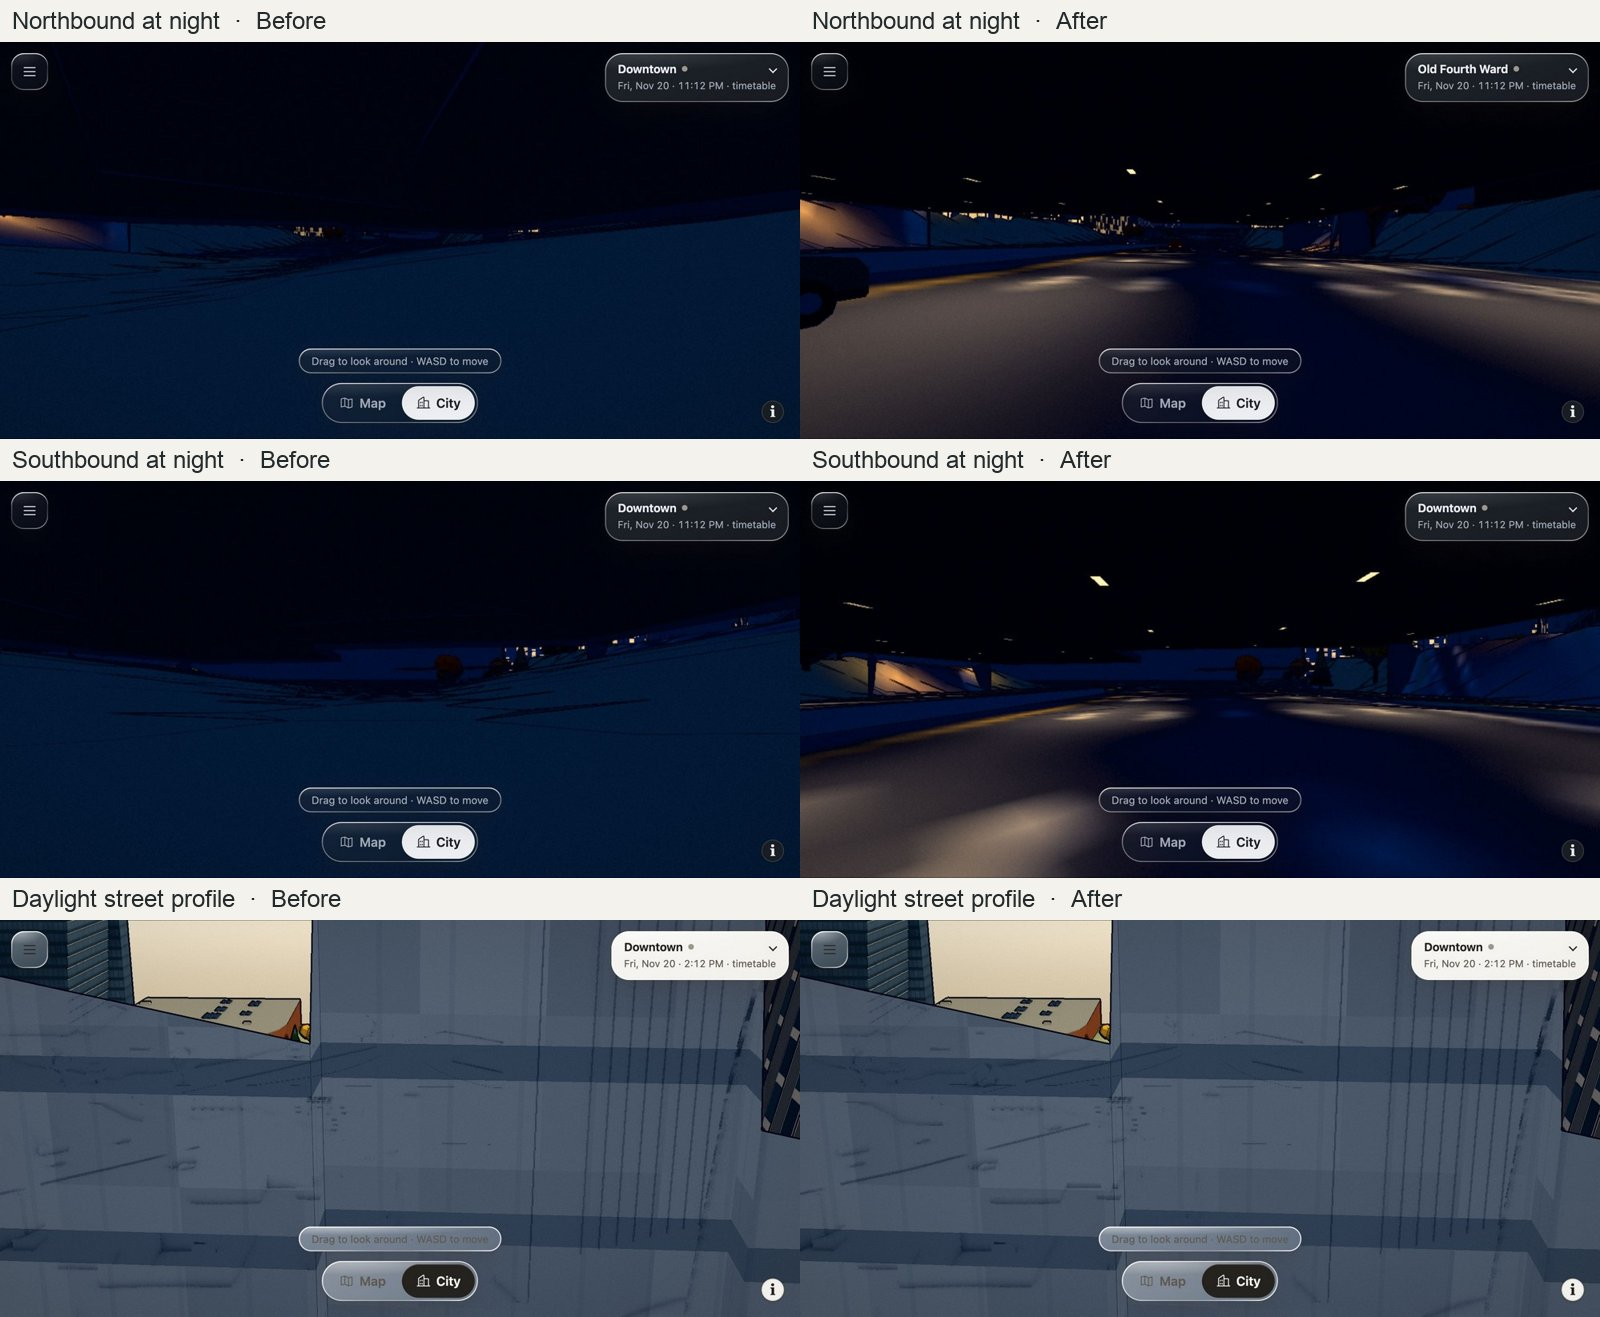
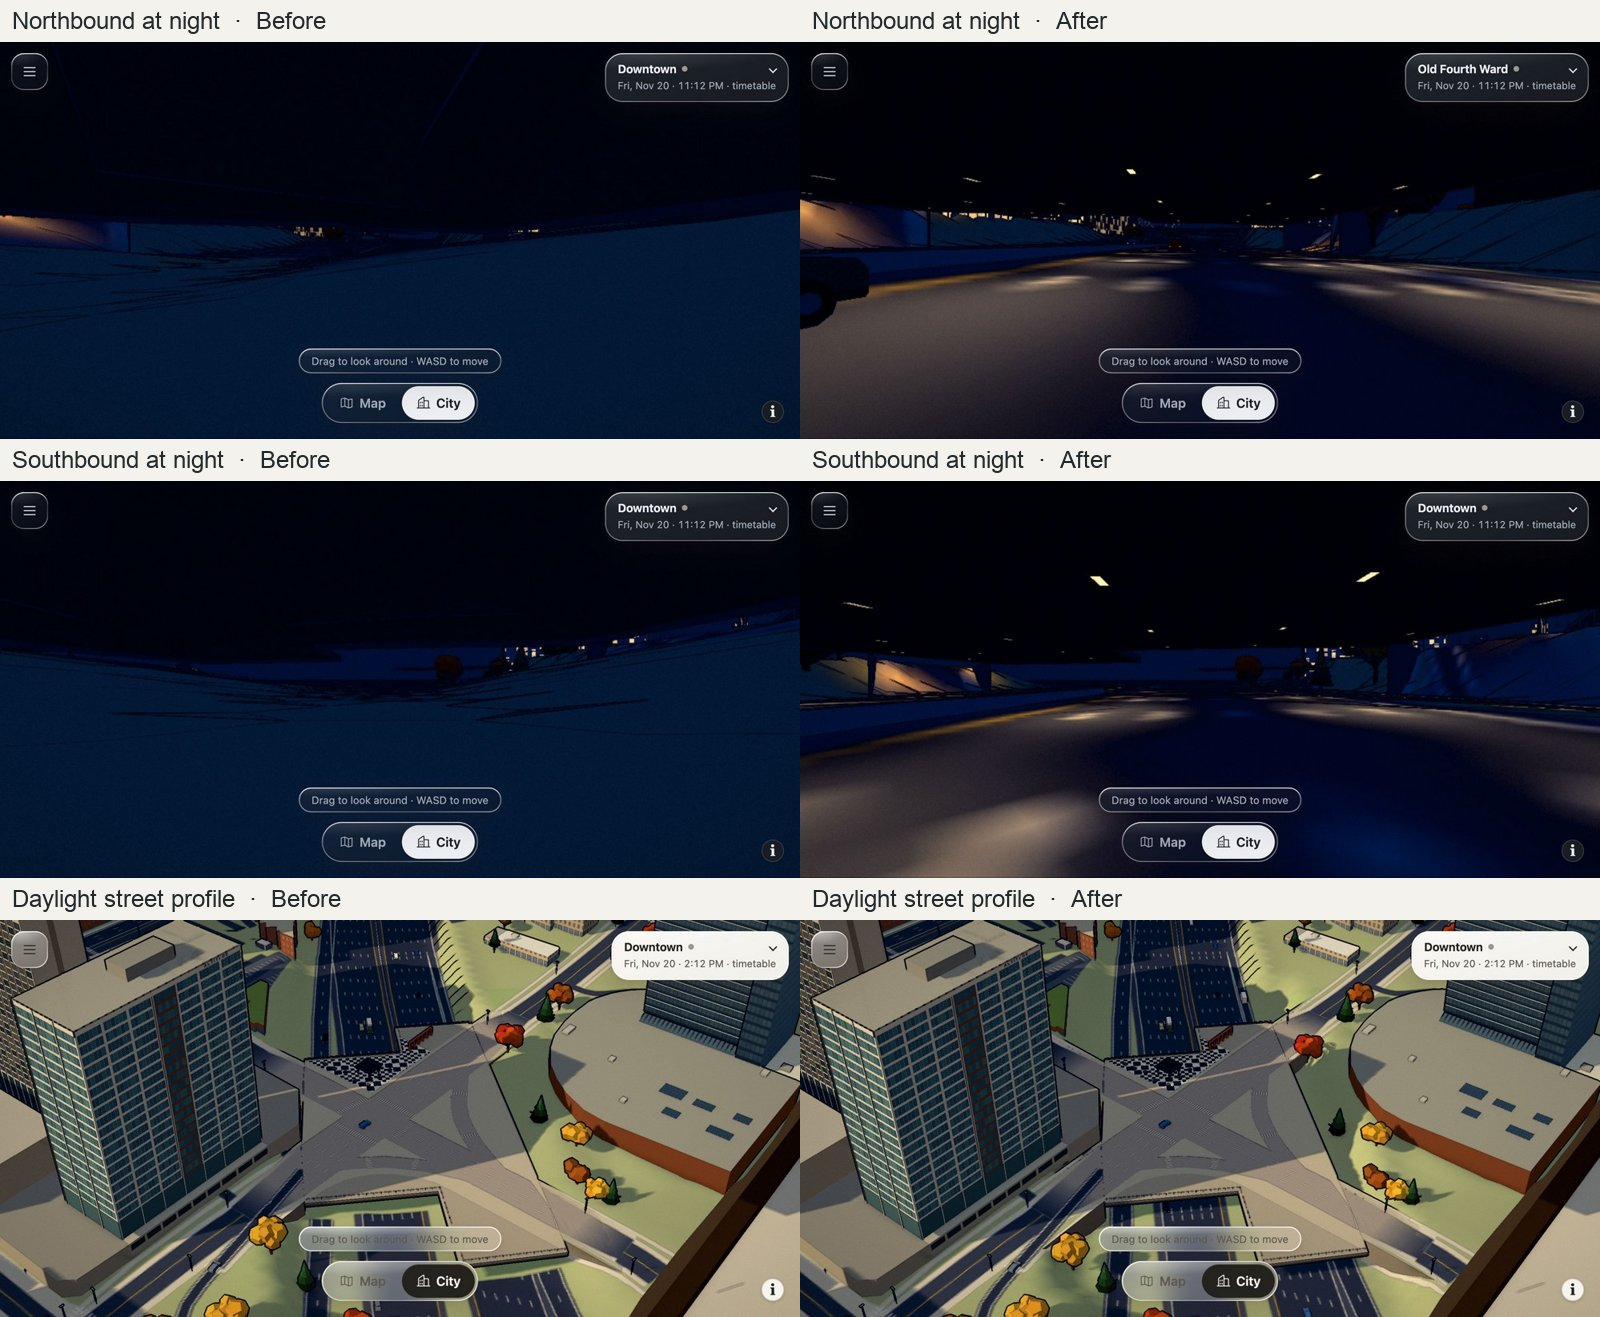
Frame the approach comparisons and verify Baker's daylight drive

Changed region(s): [[0.0, 0.6849, 1.0, 1.0]]

diff --git a/web/src/city/city.ts b/web/src/city/city.ts
@@ -927,16 +927,16 @@ export async function createCity(container: HTMLElement, rf: RoutesFile, quality
   // Opening view: downtown at a glance from the southwest — the Gulch in front, Five Points,
   // and the Peachtree Center towers behind.
   setView(-28, 57, 5500, -40, -260);
-  const profileCameras:Record<string,[number,number,number]> = {
-    baker:[876,-920,87],courtland:[690,-1162,84],peachtree:[563,-1274,85],
-    turner:[320,-1445,85],capitol:[354,1050,85],mlk:[595,626,9],decatur:[855,452,3],
+  const profileCameras:Record<string,[number,number,number,number,number]> = {
+    baker:[878,-936,-38,52,.32],courtland:[690,-1162,84,72,.26],peachtree:[563,-1274,-50,48,.23],
+    turner:[320,-1445,85,72,.26],capitol:[354,1050,85,72,.26],mlk:[595,626,9,72,.26],decatur:[855,452,3,72,.26],
   };
   const profile=query.get('bridgeProfile') ?? '';
   if (Object.hasOwn(profileCameras,profile)) {
-    const [x,z,bearing]=profileCameras[profile];
+    const [x,z,bearing,tilt,scale]=profileCameras[profile];
     mosaic?.remember(x,z);
     approachMosaic(x,z);
-    setView(-bearing,72,Math.max(150,.26*container.clientHeight/(2*Math.tan(THREE.MathUtils.degToRad(11)))),x,z);
+    setView(-bearing,tilt,Math.max(150,scale*container.clientHeight/(2*Math.tan(THREE.MathUtils.degToRad(11)))),x,z);
   }
   if (brookwoodStudy) {
     mosaic?.remember(-92,-5054);

diff --git a/docs/connector-underpasses.md b/docs/connector-underpasses.md
@@ -40,3 +40,5 @@ Each gallery pairs the same two driver-height cameras at 23:12 Eastern and the s
 Open `/?view=city&board=square&q=low&underpass=baker&dir=nb&offset=-9&t=2026-11-20T23:12:49-05:00&speed=0&tilt=0`. Change the key to switch crossing, use `dir=sb` for the opposite carriageway, or `dir=outer` for the second Capitol ramp. Add `drive=1` to ride through the passage. The camera sits 1.55 m over the carrying road. For the upper street use `/?view=city&board=square&q=high&bridgeProfile=baker&t=2026-11-20T14:12:49-05:00&speed=0&tilt=0`.
 
 For release, rebuild the web bundle. The floor profiles and corrected classifications are tracked. Existing public scene data can be reused. To reproduce the floor bake with the survey environment, run `python pipeline/prototypes/connector-footprint/underpass-floors.py` from the repository root.
+
+Claude’s review requested a moving low-detail daylight check of distant lane paint. In the northbound Baker pass the lane markings soften in the distance but remain attached to the pavement through the far portal. [Daylight ride through Baker](log/ui/underpasses/baker-day-drive.jpg)
